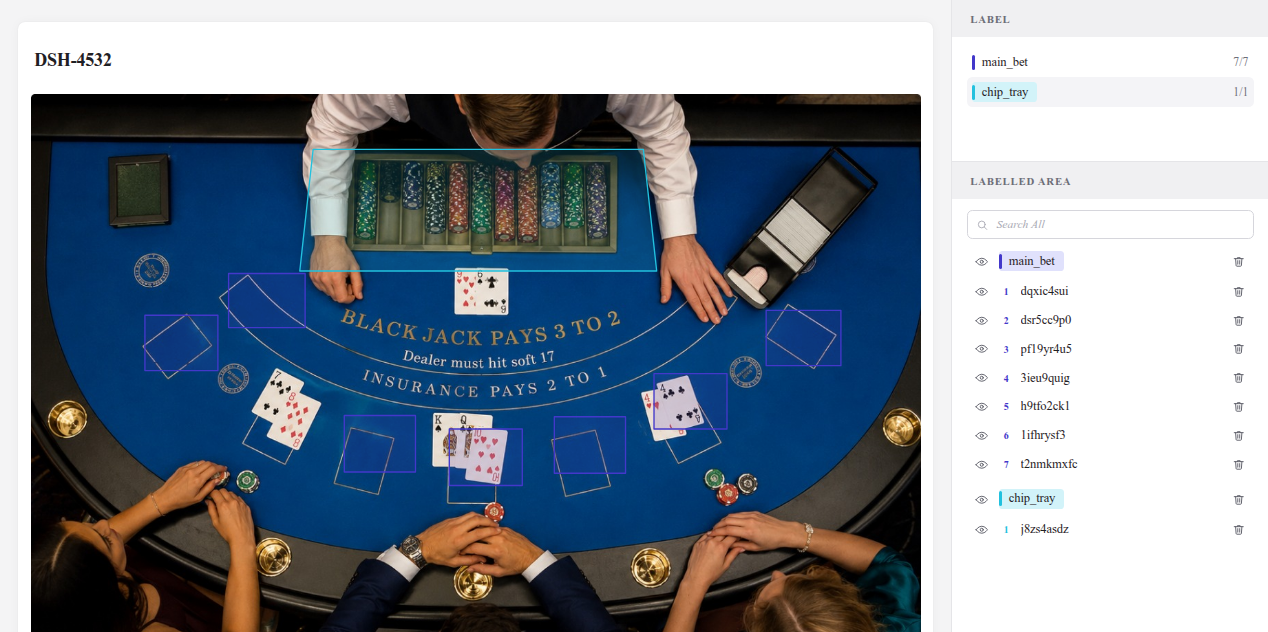
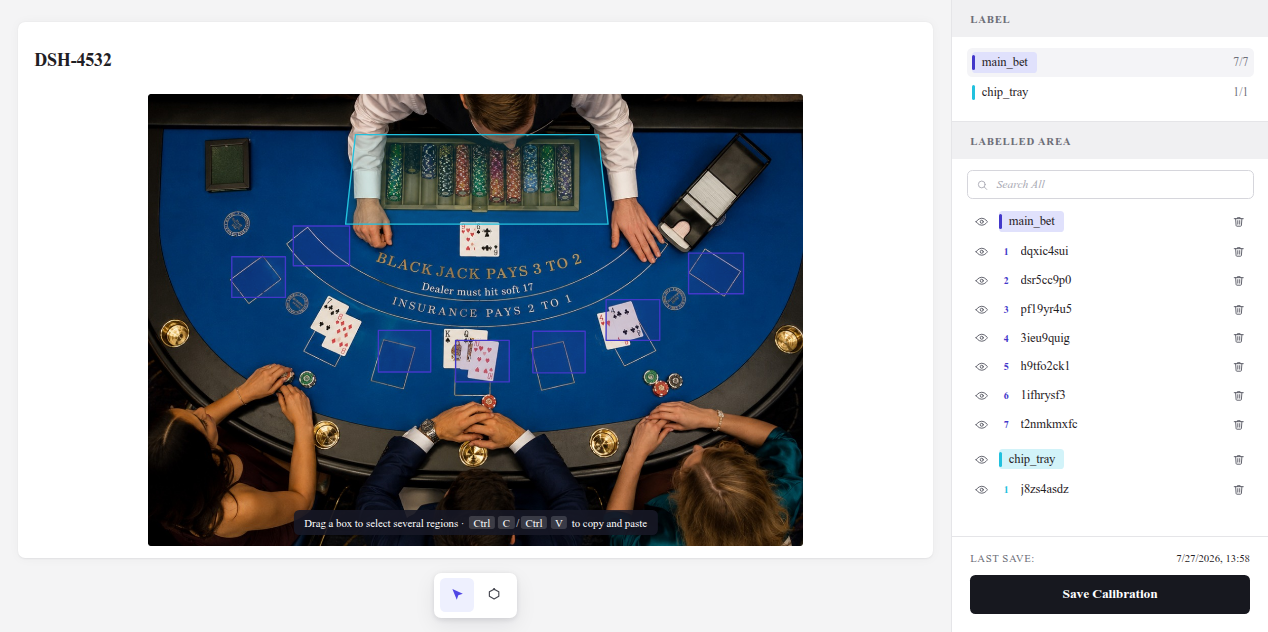
Fix table image being cropped and Save Calibration falling off screen
Two layout faults, both from percentage heights resolving against auto-height
parents:

- .app set height:100% but no grid-template-rows, so the implicit row sized to
  content. The sidebar grew to 883px inside a 702px shell, pushing the footer
  and its Save Calibration button below the viewport where overflow:hidden made
  it unreachable. The row is now pinned to the container.

- .stage__image relied on max-height:100% against .stage__frame, which has auto
  height, so the constraint never applied: the image rendered at full width and
  was cropped ~90px top and bottom by the stage's overflow:hidden. The frame is
  now sized to the contain-fit box from a ResizeObserver on the stage, which
  also gives the SVG overlay the exact pixel box it needs.

Verified the image fits with zero clipping and aspect preserved, the SVG overlay
matches the image box, and polygon coordinates round-trip against the saved file
to within 0.02px.

diff --git a/src/components/CanvasStage.tsx b/src/components/CanvasStage.tsx
@@ -56,6 +56,7 @@ export function CanvasStage() {
   const hoveredId = useStore((s) => s.hoveredId);
   const activeLabel = useStore((s) => s.activeLabel);
 
+  const stageRef = useRef<HTMLDivElement>(null);
   const frameRef = useRef<HTMLDivElement>(null);
   const [size, setSize] = useState({ width: 0, height: 0 });
   const [cursor, setCursor] = useState<Point | null>(null);
@@ -63,15 +64,22 @@ export function CanvasStage() {
   const [marquee, setMarquee] = useState<{ origin: Point; current: Point } | null>(null);
   const drag = useRef<DragState>(null);
 
-  // The image is laid out with `max-width/height: 100%`, so its rendered size
-  // is only known after layout — measure it and convert coordinates in JS
-  // rather than relying on an SVG viewBox (which would also scale strokes).
+  // Fit the frame to the stage in JS rather than with `max-height: 100%`, which
+  // silently does nothing against an auto-height parent and lets the image
+  // overflow and get cropped. Measuring the stage and computing the contain-fit
+  // box explicitly also gives the exact pixel size the SVG overlay needs.
   useLayoutEffect(() => {
-    const el = frameRef.current;
+    const el = stageRef.current;
     if (!el) return;
+    const aspect = TABLE_IMAGE.width / TABLE_IMAGE.height;
     const observer = new ResizeObserver(([entry]) => {
       const { width, height } = entry.contentRect;
-      setSize({ width, height });
+      if (width <= 0 || height <= 0) return;
+      const fitted =
+        width / height > aspect
+          ? { width: height * aspect, height } // stage is wider — height-bound
+          : { width, height: width / aspect }; // stage is taller — width-bound
+      setSize(fitted);
     });
     observer.observe(el);
     return () => observer.disconnect();
@@ -352,8 +360,12 @@ export function CanvasStage() {
   const draftLabel = getLabel(activeLabel);
 
   return (
-    <div className="stage">
-      <div className="stage__frame" ref={frameRef}>
+    <div className="stage" ref={stageRef}>
+      <div
+        className="stage__frame"
+        ref={frameRef}
+        style={{ width: size.width, height: size.height }}
+      >
         <img className="stage__image" src={TABLE_IMAGE.source} alt="Table camera frame" draggable={false} />
 
         <svg

diff --git a/src/index.css b/src/index.css
@@ -55,6 +55,11 @@ input {
 .app {
   display: grid;
   grid-template-columns: minmax(0, 1fr) 352px;
+  /* Without an explicit row the implicit one sizes to content, so a tall
+     sidebar grows past the viewport and takes Save Calibration with it —
+     and `overflow: hidden` then makes it unreachable. Pin the row to the
+     container and let each panel scroll internally instead. */
+  grid-template-rows: minmax(0, 100%);
   height: 100%;
   overflow: hidden;
 }
@@ -103,10 +108,11 @@ input {
   line-height: 0;
 }
 
+/* The frame is sized in JS to the contain-fit box, so the image simply fills it. */
 .stage__image {
   display: block;
-  max-width: 100%;
-  max-height: 100%;
+  width: 100%;
+  height: 100%;
   user-select: none;
   -webkit-user-drag: none;
 }
@@ -216,8 +222,17 @@ input {
   background: var(--surface);
   border-left: 1px solid var(--border);
   display: grid;
-  grid-template-rows: minmax(180px, auto) minmax(0, 1fr) auto;
+  /* The footer row stays `auto` so Save Calibration is always laid out first;
+     the layer list takes the remaining space and scrolls. */
+  grid-template-rows: auto minmax(0, 1fr) auto;
   min-height: 0;
+  height: 100%;
+  overflow: hidden;
+}
+
+/* The LABEL section shouldn't grow unboundedly as categories are added. */
+.sidebar > .section:first-child .section__body {
+  max-height: 26vh;
 }
 
 .section {
